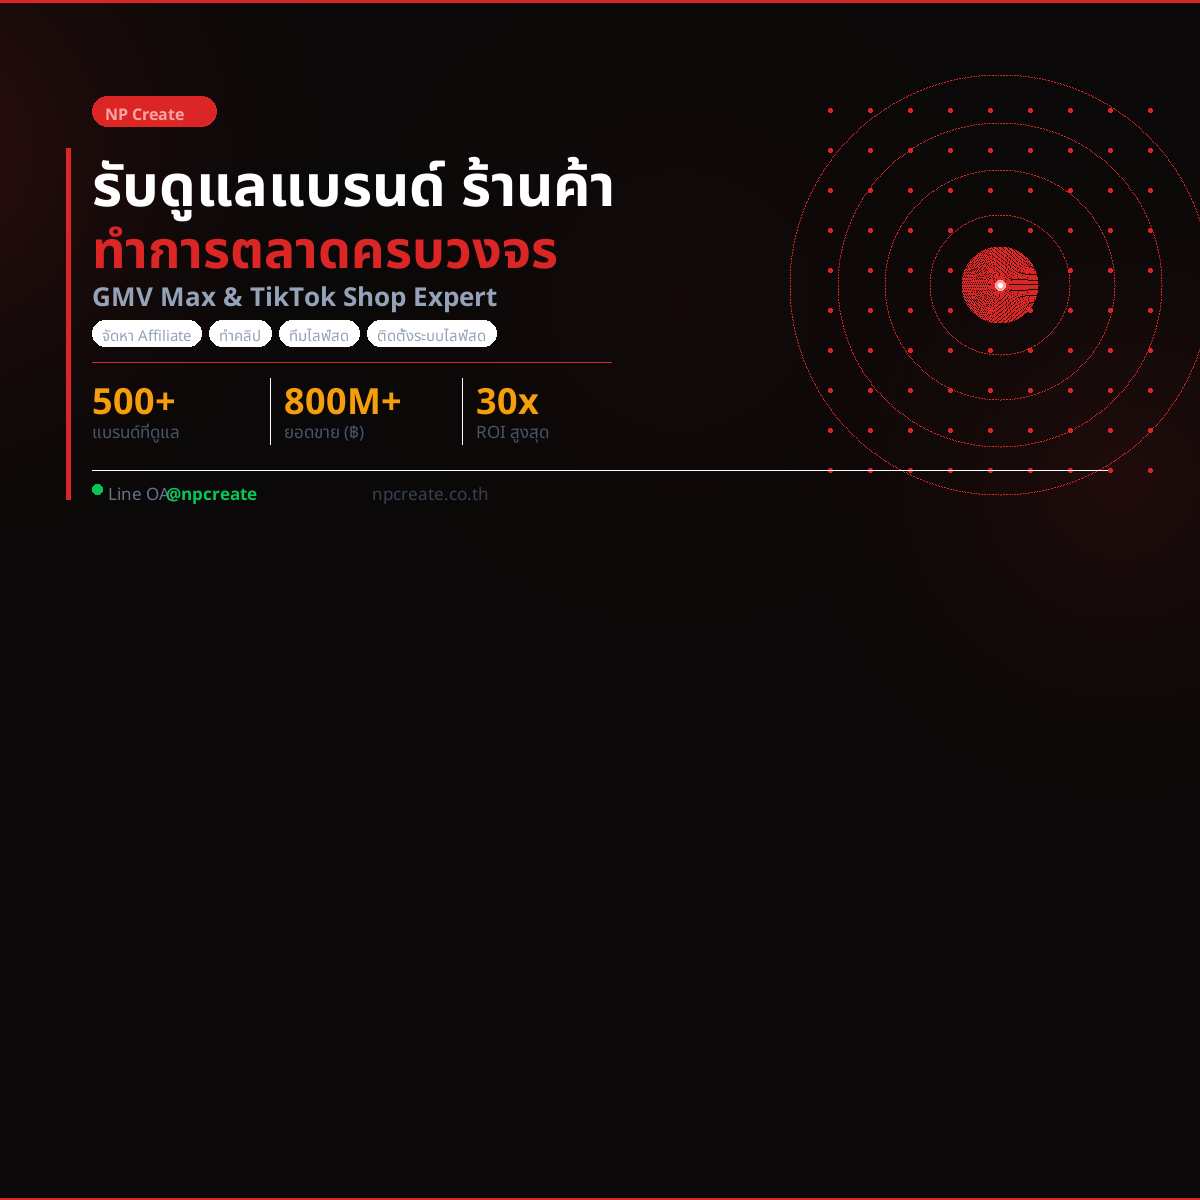
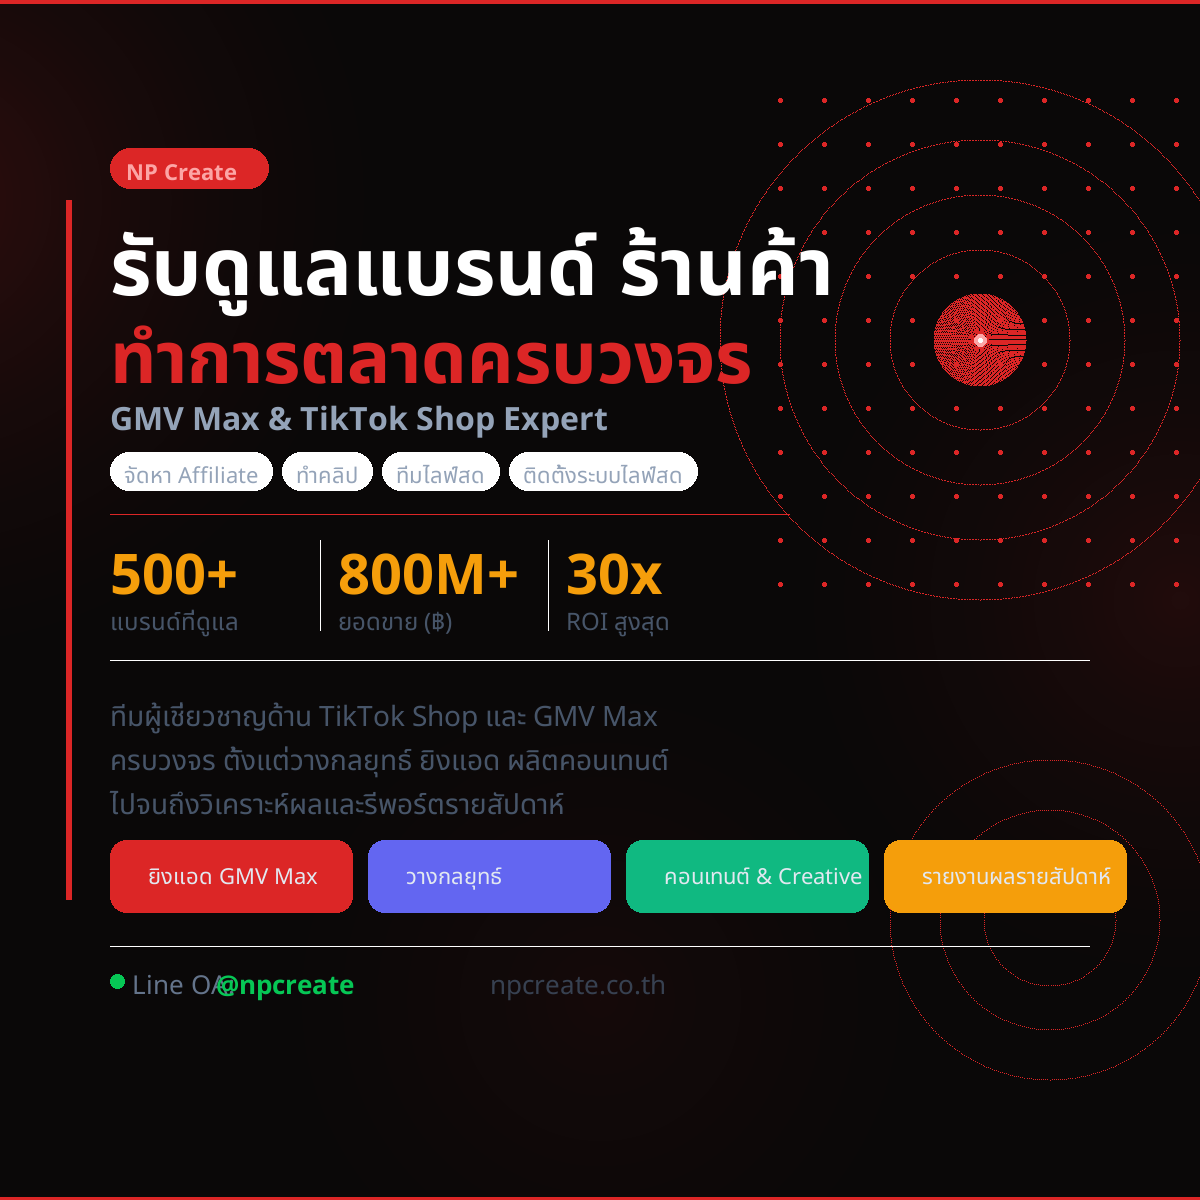
ปรับ og-image layout เต็ม 1200x1200: ขยาย font, เพิ่ม description block และ feature cards

diff --git a/scripts/gen_og_image.py b/scripts/gen_og_image.py
@@ -1,5 +1,5 @@
 """
-Generate og-image.png (1200x630) for NP Create
+Generate og-image.png (1200x1200) for NP Create
 """
 from PIL import Image, ImageDraw, ImageFont
 import math, os
@@ -21,16 +21,17 @@ FONT_DIR = os.path.join(os.path.dirname(__file__), "font")
 BD  = os.path.join(FONT_DIR, "NotoSansThai-Bold.ttf")
 REG = os.path.join(FONT_DIR, "NotoSansThai-Regular.ttf")
 
-f_hero   = ImageFont.truetype(BD,  58)
-f_hero2  = ImageFont.truetype(BD,  52)
-f_tag    = ImageFont.truetype(BD,  26)
-f_body   = ImageFont.truetype(REG, 21)
-f_stat_v = ImageFont.truetype(BD,  36)
-f_stat_l = ImageFont.truetype(REG, 17)
-f_badge  = ImageFont.truetype(BD,  16)
-f_pill   = ImageFont.truetype(REG, 15)
-f_line   = ImageFont.truetype(BD,  17)
-f_domain = ImageFont.truetype(REG, 17)
+f_hero   = ImageFont.truetype(BD,  80)
+f_hero2  = ImageFont.truetype(BD,  72)
+f_tag    = ImageFont.truetype(BD,  32)
+f_body   = ImageFont.truetype(REG, 26)
+f_stat_v = ImageFont.truetype(BD,  56)
+f_stat_l = ImageFont.truetype(REG, 24)
+f_badge  = ImageFont.truetype(BD,  22)
+f_pill   = ImageFont.truetype(REG, 22)
+f_line   = ImageFont.truetype(BD,  26)
+f_domain = ImageFont.truetype(REG, 26)
+f_desc   = ImageFont.truetype(REG, 28)
 
 # ── Background orbs ───────────────────────────────────────────────────────────
 def orb(cx, cy, r, color_hex, peak=55):
@@ -49,22 +50,22 @@ def orb(cx, cy, r, color_hex, peak=55):
                     255
                 ))
 
-orb(-80,  150, 510, "#DC2626", 46)
-orb(1120, 480, 440, "#DC2626", 28)
-orb(680,  300, 560, "#DC2626", 12)
+orb(-80,  200, 560, "#DC2626", 46)
+orb(1180, 600, 500, "#DC2626", 28)
+orb(600,  1000, 480, "#DC2626", 14)
 
 draw = ImageDraw.Draw(img, "RGBA")
 
 # ── Top & bottom gradient lines ───────────────────────────────────────────────
 for x in range(W):
     g = math.exp(-((x/W - 0.5)**2) / (2*0.12**2))
-    draw.line([(x, 0), (x, 2)],   fill=(220, 38, 38, int(180*g)))
-    draw.line([(x, H-2), (x, H)], fill=(220, 38, 38, int(90*g)))
+    draw.line([(x, 0), (x, 3)],   fill=(220, 38, 38, int(200*g)))
+    draw.line([(x, H-3), (x, H)], fill=(220, 38, 38, int(100*g)))
 
 # ── Right decoration: rings + dot grid ───────────────────────────────────────
-cx_r, cy_r = 1000, 285
+cx_r, cy_r = 980, 340
 
-for ring_r, alpha in [(210, 14), (162, 20), (115, 30), (70, 44)]:
+for ring_r, alpha in [(260, 12), (200, 18), (145, 26), (90, 38)]:
     steps = max(180, ring_r * 4)
     for i in range(steps):
         rad = 2 * math.pi * i / steps
@@ -73,8 +74,8 @@ for ring_r, alpha in [(210, 14), (162, 20), (115, 30), (70, 44)]:
         if 0 <= px < W and 0 <= py < H:
             draw.point((px, py), fill=(220, 38, 38, alpha))
 
-for ring_r in range(38, 0, -1):
-    a = int(80 * (1 - ring_r/38)**1.5)
+for ring_r in range(46, 0, -1):
+    a = int(90 * (1 - ring_r/46)**1.5)
     steps = max(60, ring_r * 5)
     for i in range(steps):
         rad = 2 * math.pi * i / steps
@@ -83,92 +84,145 @@ for ring_r in range(38, 0, -1):
         if 0 <= px < W and 0 <= py < H:
             draw.point((px, py), fill=(220, 38, 38, a))
 
-for r in range(10):
-    for c in range(9):
-        px = 830 + c * 40
-        py = 110 + r * 40
+for r in range(12):
+    for c in range(10):
+        px = 780 + c * 44
+        py = 100 + r * 44
         dc = math.sqrt((px - cx_r)**2 + (py - cy_r)**2)
-        a = max(0, int(60 - dc * 0.1))
+        a = max(0, int(55 - dc * 0.09))
         if a > 4:
             draw.ellipse([px-2, py-2, px+2, py+2], fill=rgba("#DC2626", a))
 
-draw.ellipse([cx_r-5, cy_r-5, cx_r+5, cy_r+5], fill=rgba("#FCA5A5", 200))
+draw.ellipse([cx_r-6, cy_r-6, cx_r+6, cy_r+6], fill=rgba("#FCA5A5", 200))
 draw.ellipse([cx_r-2, cy_r-2, cx_r+2, cy_r+2], fill=rgba("#FFFFFF", 255))
 
-# ── Left accent bar ───────────────────────────────────────────────────────────
-for y in range(148, 500):
-    t = (y - 148) / 352
-    a = int(220 * math.sin(math.pi * t))
-    draw.line([(66, y), (70, y)], fill=(220, 38, 38, a))
+# ── Bottom-right second ring cluster ─────────────────────────────────────────
+cx_b, cy_b = 1050, 920
+for ring_r, alpha in [(160, 8), (110, 14), (66, 22)]:
+    steps = max(120, ring_r * 3)
+    for i in range(steps):
+        rad = 2 * math.pi * i / steps
+        px = int(cx_b + ring_r * math.cos(rad))
+        py = int(cy_b + ring_r * math.sin(rad))
+        if 0 <= px < W and 0 <= py < H:
+            draw.point((px, py), fill=(220, 38, 38, alpha))
 
-TX = 92
+# ── Left accent bar ───────────────────────────────────────────────────────────
+for y in range(200, 900):
+    t = (y - 200) / 700
+    a = int(200 * math.sin(math.pi * t))
+    draw.line([(66, y), (71, y)], fill=(220, 38, 38, a))
+
+TX = 110
 
 # ── Badge ─────────────────────────────────────────────────────────────────────
-bx, by = TX, 96
-draw.rounded_rectangle([bx, by, bx+124, by+30], radius=15,
+bx, by = TX, 148
+draw.rounded_rectangle([bx, by, bx+158, by+40], radius=20,
     fill=rgba("#DC2626", 40), outline=rgba("#DC2626", 110), width=1)
-draw.text((bx+13, by+7), "NP Create", font=f_badge, fill=rgba("#FCA5A5"))
+draw.text((bx+16, by+8), "NP Create", font=f_badge, fill=rgba("#FCA5A5"))
 
 # ── Headings ──────────────────────────────────────────────────────────────────
-draw.text((TX, 144), "รับดูแลแบรนด์ ร้านค้า", font=f_hero, fill=rgb("#FFFFFF"))
-draw.text((TX, 212), "ทำการตลาดครบวงจร", font=f_hero2, fill=rgb("#DC2626"))
+draw.text((TX, 210), "รับดูแลแบรนด์ ร้านค้า", font=f_hero,  fill=rgb("#FFFFFF"))
+draw.text((TX, 306), "ทำการตลาดครบวงจร",      font=f_hero2, fill=rgb("#DC2626"))
 
 # ── Sub label ────────────────────────────────────────────────────────────────
-draw.text((TX, 278), "GMV Max & TikTok Shop Expert", font=f_tag, fill=rgba("#94A3B8"))
+draw.text((TX, 396), "GMV Max & TikTok Shop Expert", font=f_tag, fill=rgba("#94A3B8"))
 
 # ── Service pills row ─────────────────────────────────────────────────────────
 services = ["จัดหา Affiliate", "ทำคลิป", "ทีมไลฟ์สด", "ติดตั้งระบบไลฟ์สด"]
 pill_x = TX
-pill_y = 320
-pill_h = 26
-pill_gap = 8
+pill_y = 452
+pill_h = 38
+pill_gap = 10
 
 for svc in services:
-    # measure text width approx
     bbox = f_pill.getbbox(svc)
     tw = bbox[2] - bbox[0]
-    pw = tw + 20
-
+    pw = tw + 28
     draw.rounded_rectangle(
         [pill_x, pill_y, pill_x + pw, pill_y + pill_h],
-        radius=13,
+        radius=19,
         fill=rgba("#FFFFFF", 8),
         outline=rgba("#FFFFFF", 20),
         width=1,
     )
-    draw.text((pill_x + 10, pill_y + 5), svc, font=f_pill, fill=rgba("#94A3B8"))
+    draw.text((pill_x + 14, pill_y + 7), svc, font=f_pill, fill=rgba("#94A3B8"))
     pill_x += pw + pill_gap
 
 # ── Divider ───────────────────────────────────────────────────────────────────
-for x in range(TX, TX + 520):
-    t = (x - TX) / 520
-    a = int(80 * (1 - t**1.5))
-    draw.point((x, 362), fill=(220, 38, 38, a))
+for x in range(TX, TX + 680):
+    t = (x - TX) / 680
+    a = int(90 * (1 - t**1.5))
+    draw.point((x, 514), fill=(220, 38, 38, a))
 
 # ── Stats ─────────────────────────────────────────────────────────────────────
 stats = [("500+", "แบรนด์ที่ดูแล"), ("800M+", "ยอดขาย (฿)"), ("30x", "ROI สูงสุด")]
 sx = TX
 for i, (val, lbl) in enumerate(stats):
-    draw.text((sx, 375), val, font=f_stat_v, fill=rgb("#F59E0B"))
-    draw.text((sx, 419), lbl, font=f_stat_l, fill=rgba("#475569"))
+    draw.text((sx, 534), val, font=f_stat_v, fill=rgb("#F59E0B"))
+    draw.text((sx, 604), lbl, font=f_stat_l, fill=rgba("#475569"))
     if i < len(stats) - 1:
-        draw.line([(sx + 178, 378), (sx + 178, 444)], fill=rgba("#FFFFFF", 10), width=1)
-    sx += 192
+        draw.line([(sx + 210, 540), (sx + 210, 630)], fill=rgba("#FFFFFF", 10), width=1)
+    sx += 228
 
-# ── Bottom bar ────────────────────────────────────────────────────────────────
+# ── Divider ───────────────────────────────────────────────────────────────────
+for x in range(TX, W - TX):
+    t = (x - TX) / (W - TX * 2)
+    a = int(22 * math.sin(math.pi * t))
+    draw.point((x, 660), fill=(255, 255, 255, a))
+
+# ── Description block ────────────────────────────────────────────────────────
+desc_lines = [
+    "ทีมผู้เชี่ยวชาญด้าน TikTok Shop และ GMV Max",
+    "ครบวงจร ตั้งแต่วางกลยุทธ์ ยิงแอด ผลิตคอนเทนต์",
+    "ไปจนถึงวิเคราะห์ผลและรีพอร์ตรายสัปดาห์",
+]
+dy = 696
+for line in desc_lines:
+    draw.text((TX, dy), line, font=f_desc, fill=rgba("#475569"))
+    dy += 44
+
+# ── Feature cards row ────────────────────────────────────────────────────────
+features = [
+    ("ยิงแอด GMV Max",    "#DC2626"),
+    ("วางกลยุทธ์",        "#6366F1"),
+    ("คอนเทนต์ & Creative","#10B981"),
+    ("รายงานผลรายสัปดาห์","#F59E0B"),
+]
+card_w, card_h = 242, 72
+card_gap = 16
+card_x = TX
+card_y = 840
+
+for label, color in features:
+    cr, cg, cb = rgb(color)
+    draw.rounded_rectangle(
+        [card_x, card_y, card_x + card_w, card_y + card_h],
+        radius=16,
+        fill=(cr, cg, cb, 18),
+        outline=(cr, cg, cb, 55),
+        width=1,
+    )
+    draw.rounded_rectangle(
+        [card_x + 16, card_y + card_h//2 - 6, card_x + 28, card_y + card_h//2 + 6],
+        radius=3,
+        fill=(cr, cg, cb, 200),
+    )
+    draw.text((card_x + 38, card_y + 20), label, font=f_pill, fill=rgba("#E2E8F0"))
+    card_x += card_w + card_gap
+
+# ── Divider ───────────────────────────────────────────────────────────────────
 for x in range(TX, W - TX):
     t = (x - TX) / (W - TX * 2)
     a = int(18 * math.sin(math.pi * t))
-    draw.point((x, 470), fill=(255, 255, 255, a))
+    draw.point((x, 946), fill=(255, 255, 255, a))
 
-# LINE OA (green)
+# ── Bottom info ───────────────────────────────────────────────────────────────
 line_x = TX
-draw.ellipse([line_x, 484, line_x+10, 494], fill=rgba("#06C755", 220))
-draw.text((line_x + 16, 481), "Line OA:", font=f_domain, fill=rgba("#64748B"))
-draw.text((line_x + 74, 481), "@npcreate", font=f_line, fill=rgba("#06C755", 210))
-
-# Domain (right-aligned bottom)
-draw.text((TX + 280, 481), "npcreate.co.th", font=f_domain, fill=rgba("#374151"))
+draw.ellipse([line_x, 974, line_x+14, 988], fill=rgba("#06C755", 220))
+draw.text((line_x + 22, 966), "Line OA:", font=f_domain, fill=rgba("#64748B"))
+draw.text((line_x + 106, 966), "@npcreate", font=f_line, fill=rgba("#06C755", 210))
+draw.text((TX + 380, 966), "npcreate.co.th", font=f_domain, fill=rgba("#374151"))
 
 # ── Save ──────────────────────────────────────────────────────────────────────
 img.convert("RGB").save(OUT, "PNG", optimize=True)
